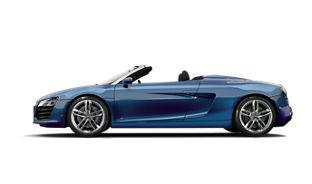
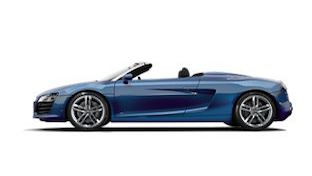
Change Images size

diff --git a/app/vehicleType/vehicleType.html b/app/vehicleType/vehicleType.html
@@ -7,73 +7,63 @@
 
 <div class = "car-container">
   <div ng-controller="coupeController">
-    <div style="height: 400px">
+    <div style="height: 500px">
       <carousel interval="myInterval" no-wrap="noWrapSlides">
         <slide ng-repeat="slide in slides" active="slide.active">
           <img ng-src="{{slide.image}}" ng-click="setCarType('coupes');go('/vehicleModel')" style="margin:auto;" width="468" height="627">
         </slide>
       </carousel>
       <div class="typeLabel"><h3>Coupe</h3></div>
-
     </div> <!--slideShow-->
   </div> <!--coupeContainer-->
+</div>
 
-  <div class = "car-container">
-    <div ng-controller="suvController">
-      <div style="height: 400px">
-        <carousel interval="myInterval" no-wrap="noWrapSlides">
-          <slide ng-repeat="slide in slides" active="slide.active">
-            <img ng-src="{{slide.image}}" ng-click="setCarType('suvs');go('/vehicleModel')" style="margin:auto;" width="468" height="627">
-            <div class="carousel-caption">
-              <h4></h4>
-            </div>
-          </slide>
-        </carousel>
-        <div class="typeLabel"><h3>SUV</h3></div>
-
-      </div>
-    </div> <!--slideShow-->
-  </div>
+<div class = "car-container">
+  <div ng-controller="suvController">
+    <div style="height: 500px">
+      <carousel interval="myInterval" no-wrap="noWrapSlides">
+        <slide ng-repeat="slide in slides" active="slide.active">
+          <img ng-src="{{slide.image}}" ng-click="setCarType('suvs');go('/vehicleModel')" style="margin:auto;" width="468" height="627">
+        </slide>
+      </carousel>
+      <div class="typeLabel"><h3>SUV</h3></div>
+    </div>
+  </div> <!--slideShow-->
+</div>
 
 
-  <div class = "car-container">
-    <div ng-controller="sedanController">
-      <div style="height: 400px">
-        <carousel interval="myInterval" no-wrap="noWrapSlides">
-          <slide ng-repeat="slide in slides" active="slide.active">
-            <img ng-src="{{slide.image}}" ng-click="setCarType('sedans');go('/vehicleModel')" style="margin:auto;" width="468" height="627">
-            <div class="carousel-caption">
-              <h4></h4>
-            </div>
-          </slide>
-        </carousel>
-        <div class="typeLabel"><h3>Sedan</h3></div>
-
-      </div>
-    </div> <!--slideShow-->
-  </div>
+<div class = "car-container">
+  <div ng-controller="sedanController">
+    <div style="height: 500px">
+      <carousel interval="myInterval" no-wrap="noWrapSlides">
+        <slide ng-repeat="slide in slides" active="slide.active">
+          <img ng-src="{{slide.image}}" ng-click="setCarType('sedans');go('/vehicleModel')" style="margin:auto;" width="468" height="627">
+          <div class="carousel-caption">
+          </div>
+        </slide>
+      </carousel>
+      <div class="typeLabel"><h3>Sedan</h3></div>
+    </div>
+  </div> <!--slideShow-->
+</div>
 
 
-  <div class = "car-container">
-    <div ng-controller="convertibleController">
-      <div style="height: 400px">
-        <carousel interval="myInterval" no-wrap="noWrapSlides">
-          <slide ng-repeat="slide in slides" active="slide.active">
-            <img ng-src="{{slide.image}}" ng-click="setCarType('convertibles');go('/vehicleModel')" style="margin:auto;" width="468" height="627">
-            <div class="carousel-caption">
-              <h4></h4>
-            </div>
-          </slide>
-        </carousel>
-        <div class="typeLabel"><h3>Convertible</h3></div>
-
-      </div>
-    </div> <!--slideShow-->
-  </div>
+<div class = "car-container">
+  <div ng-controller="convertibleController">
+    <div style="height: 500px">
+      <carousel interval="myInterval" no-wrap="noWrapSlides">
+        <slide ng-repeat="slide in slides" active="slide.active">
+          <img ng-src="{{slide.image}}" ng-click="setCarType('convertibles');go('/vehicleModel')" style="margin:auto;" width="468" height="627">
+        </slide>
+      </carousel>
+      <div class="typeLabel"><h3>Convertible</h3></div>
+    </div>
+  </div> <!--slideShow-->
+</div>
 
 
 
 
 
-  <!--Scripts-->
+<!--Scripts-->
 

diff --git a/app/vehicleType/vehicleType.js b/app/vehicleType/vehicleType.js
@@ -45,7 +45,7 @@
 		$scope.setCarType = function (type) {
 			carService.car = type;
 		};
-		$scope.myInterval = 1000;
+		$scope.myInterval = 3000;
 		$scope.noWrapSlides = false;
 		var slides = $scope.slides = [];
 		var images = ["suv-allroad.jpg", "suv-q5-hybrid.jpg", "suv-q5.jpg", "suv-q7.jpg", "suv-sq5.jpg"]
@@ -67,7 +67,7 @@
 		$scope.setCarType = function (type) {
 			carService.car = type;
 		};
-		$scope.myInterval = 1000;
+		$scope.myInterval = 3000;
 		$scope.noWrapSlides = false;
 		var slides = $scope.slides = [];
 		var images = ["sedan-a8.jpg", "sedan-a3.jpg", "sedan-a4.jpg", "sedan-a8-l-w12.jpg", "sedan-s8.jpg"]

diff --git a/app/vehicleModel/vehicleModel.html b/app/vehicleModel/vehicleModel.html
@@ -2,10 +2,9 @@
 
 
 <div class = "typeLabel" ng-repeat="car in getCarType()">
-    <h3>{{car.model}} :
-        Year:  {{car.year}} Price: ${{car.price}}</h3>
+    <h3>{{car.model}}: Year:  {{car.year}} Price: ${{car.price}}</h3>
     <h2>
-    <img ng-src="resources/img/{{car.imageName}}.jpg"  ng-click="go('/features')" style="margin:auto;"/>
+    	<img ng-src="resources/img/{{car.imageName}}.jpg"  ng-click="go('/features')" style="margin:auto;"/>
     </h2>
 
 </div>

diff --git a/app/index.html b/app/index.html
@@ -35,7 +35,7 @@
         <ul class="nav navbar-nav">
           <li><a href="#/welcome">welcome</a></li>
           <li><a href="#/vehicleType">vehicleType</a></li>
-          <li><a href="#/vehicleModel">vehicleModel</a></li>
+          <!--<li><a href="#/vehicleModel">vehicleModel</a></li>-->
           <li><a href="#/features">features</a></li>
           <li><a>Dealer Location</a></li>
           <li><a>Finance</a></li>

diff --git a/app/vehicleType/vehicleType.css b/app/vehicleType/vehicleType.css
@@ -3,13 +3,15 @@
 }
 
 .car-container{
-	height: 300px;
-	width: 400px;
+	display: inline-block;
+	padding-left: 50px;
+	padding-right: 50px;
+	height: 400px;
+	width: 860px;
 }
 
 .carousel-caption {
 	overflow: hidden;
-	padding-top: 30px;
 }
 
 .typeLabel h3{

diff --git a/app/vehicleModel/vehicleModel.js b/app/vehicleModel/vehicleModel.js
@@ -1,5 +1,4 @@
 'use strict';
-
 angular.module('myApp.vehicleModel', [])
 
 .config(['$routeProvider', function($routeProvider) {
